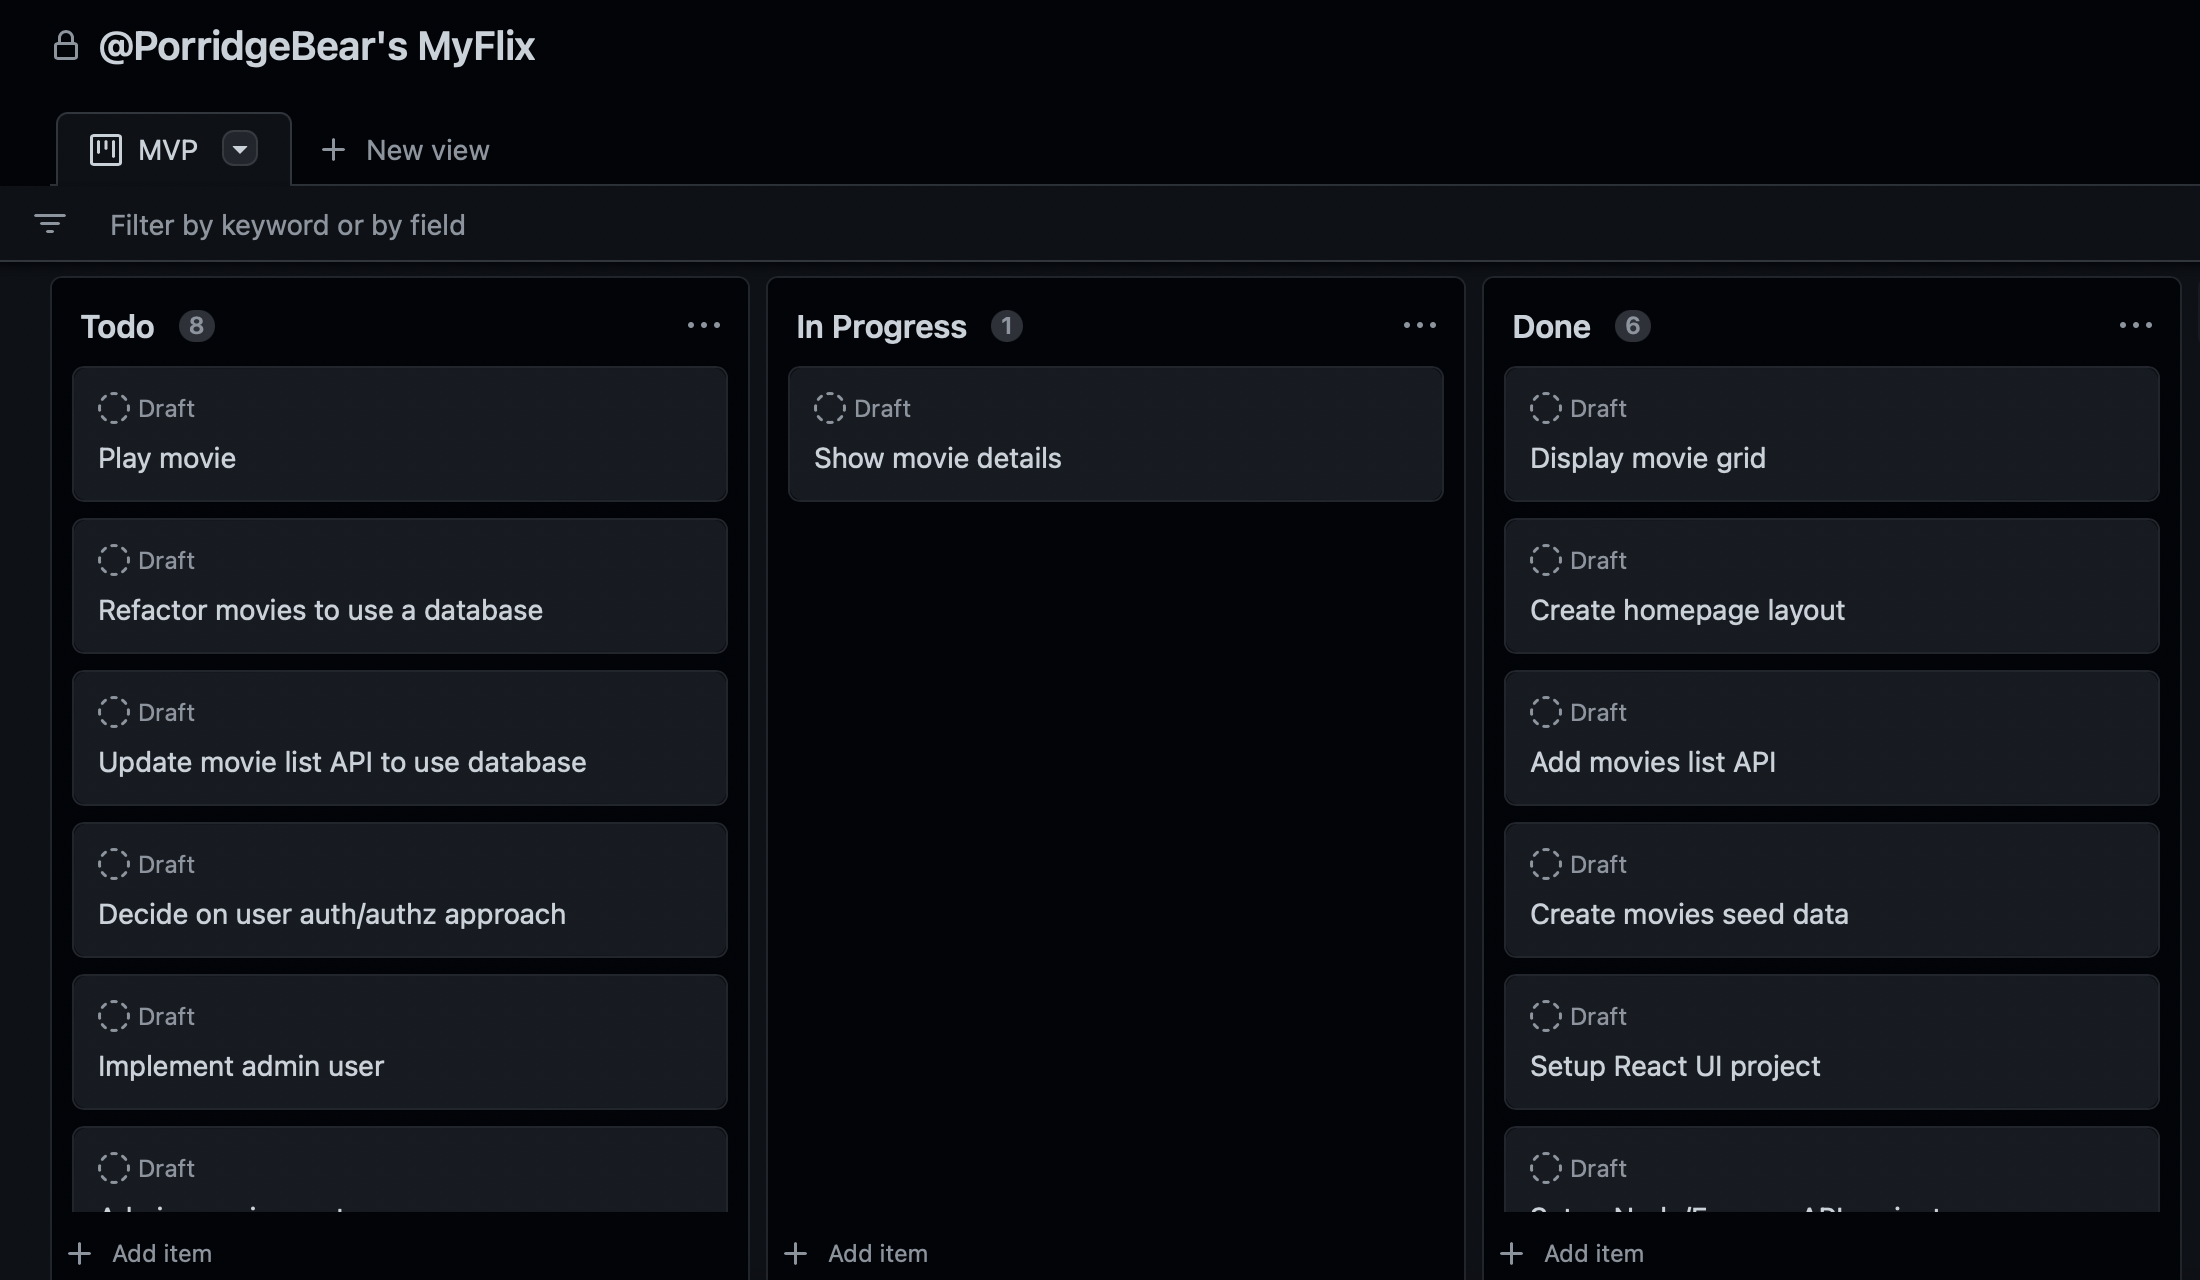
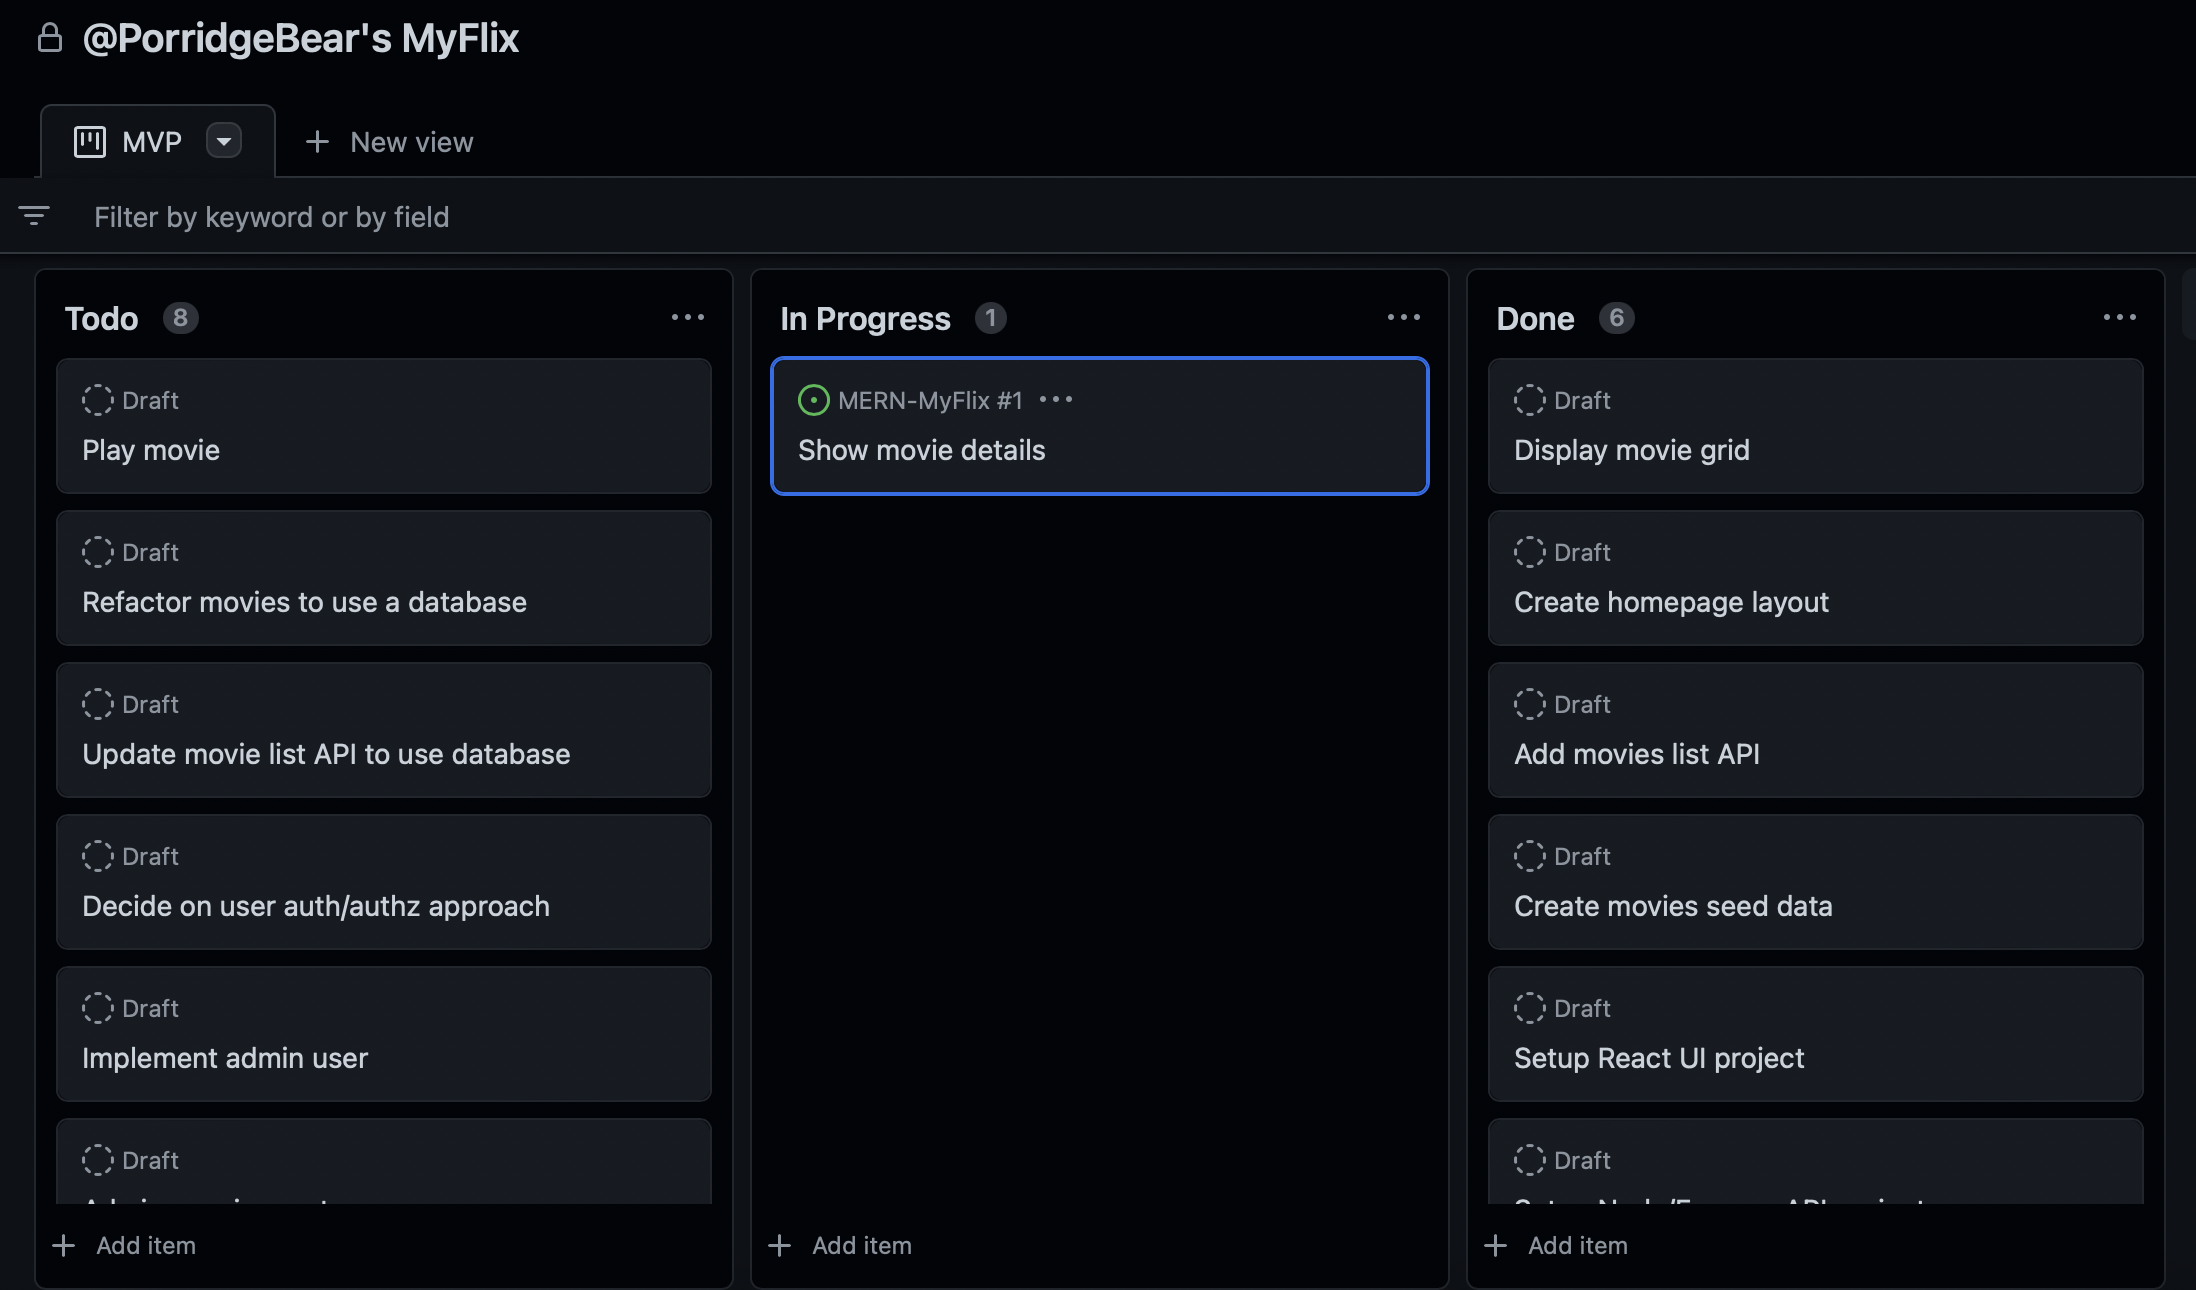
Update doccs with change to issues

Changed region(s): [[0.0, 0.0, 0.9909, 1.0], [0.3406, 0.9375, 0.4335, 1.0]]

diff --git a/README.md b/README.md
@@ -62,6 +62,10 @@ There's a handy built-in story map template to get going
 
 # Iterations
 
-I am using a private Github project board to track my progress
+I've used a private Github project board to track my progress:
 
 ![Board](project-board.png)
+
+I realised after having implemented the movies list functionality that the board supports pairing cards to Github project issues which I felt would be better aligned to professional development, where an issue can be described and labeled, given a milestone, and made into a pull request for review if needed. Whilst the project is only personal, it's good to practice these organisational practices, too.
+
+![Board](project-issue.png)
